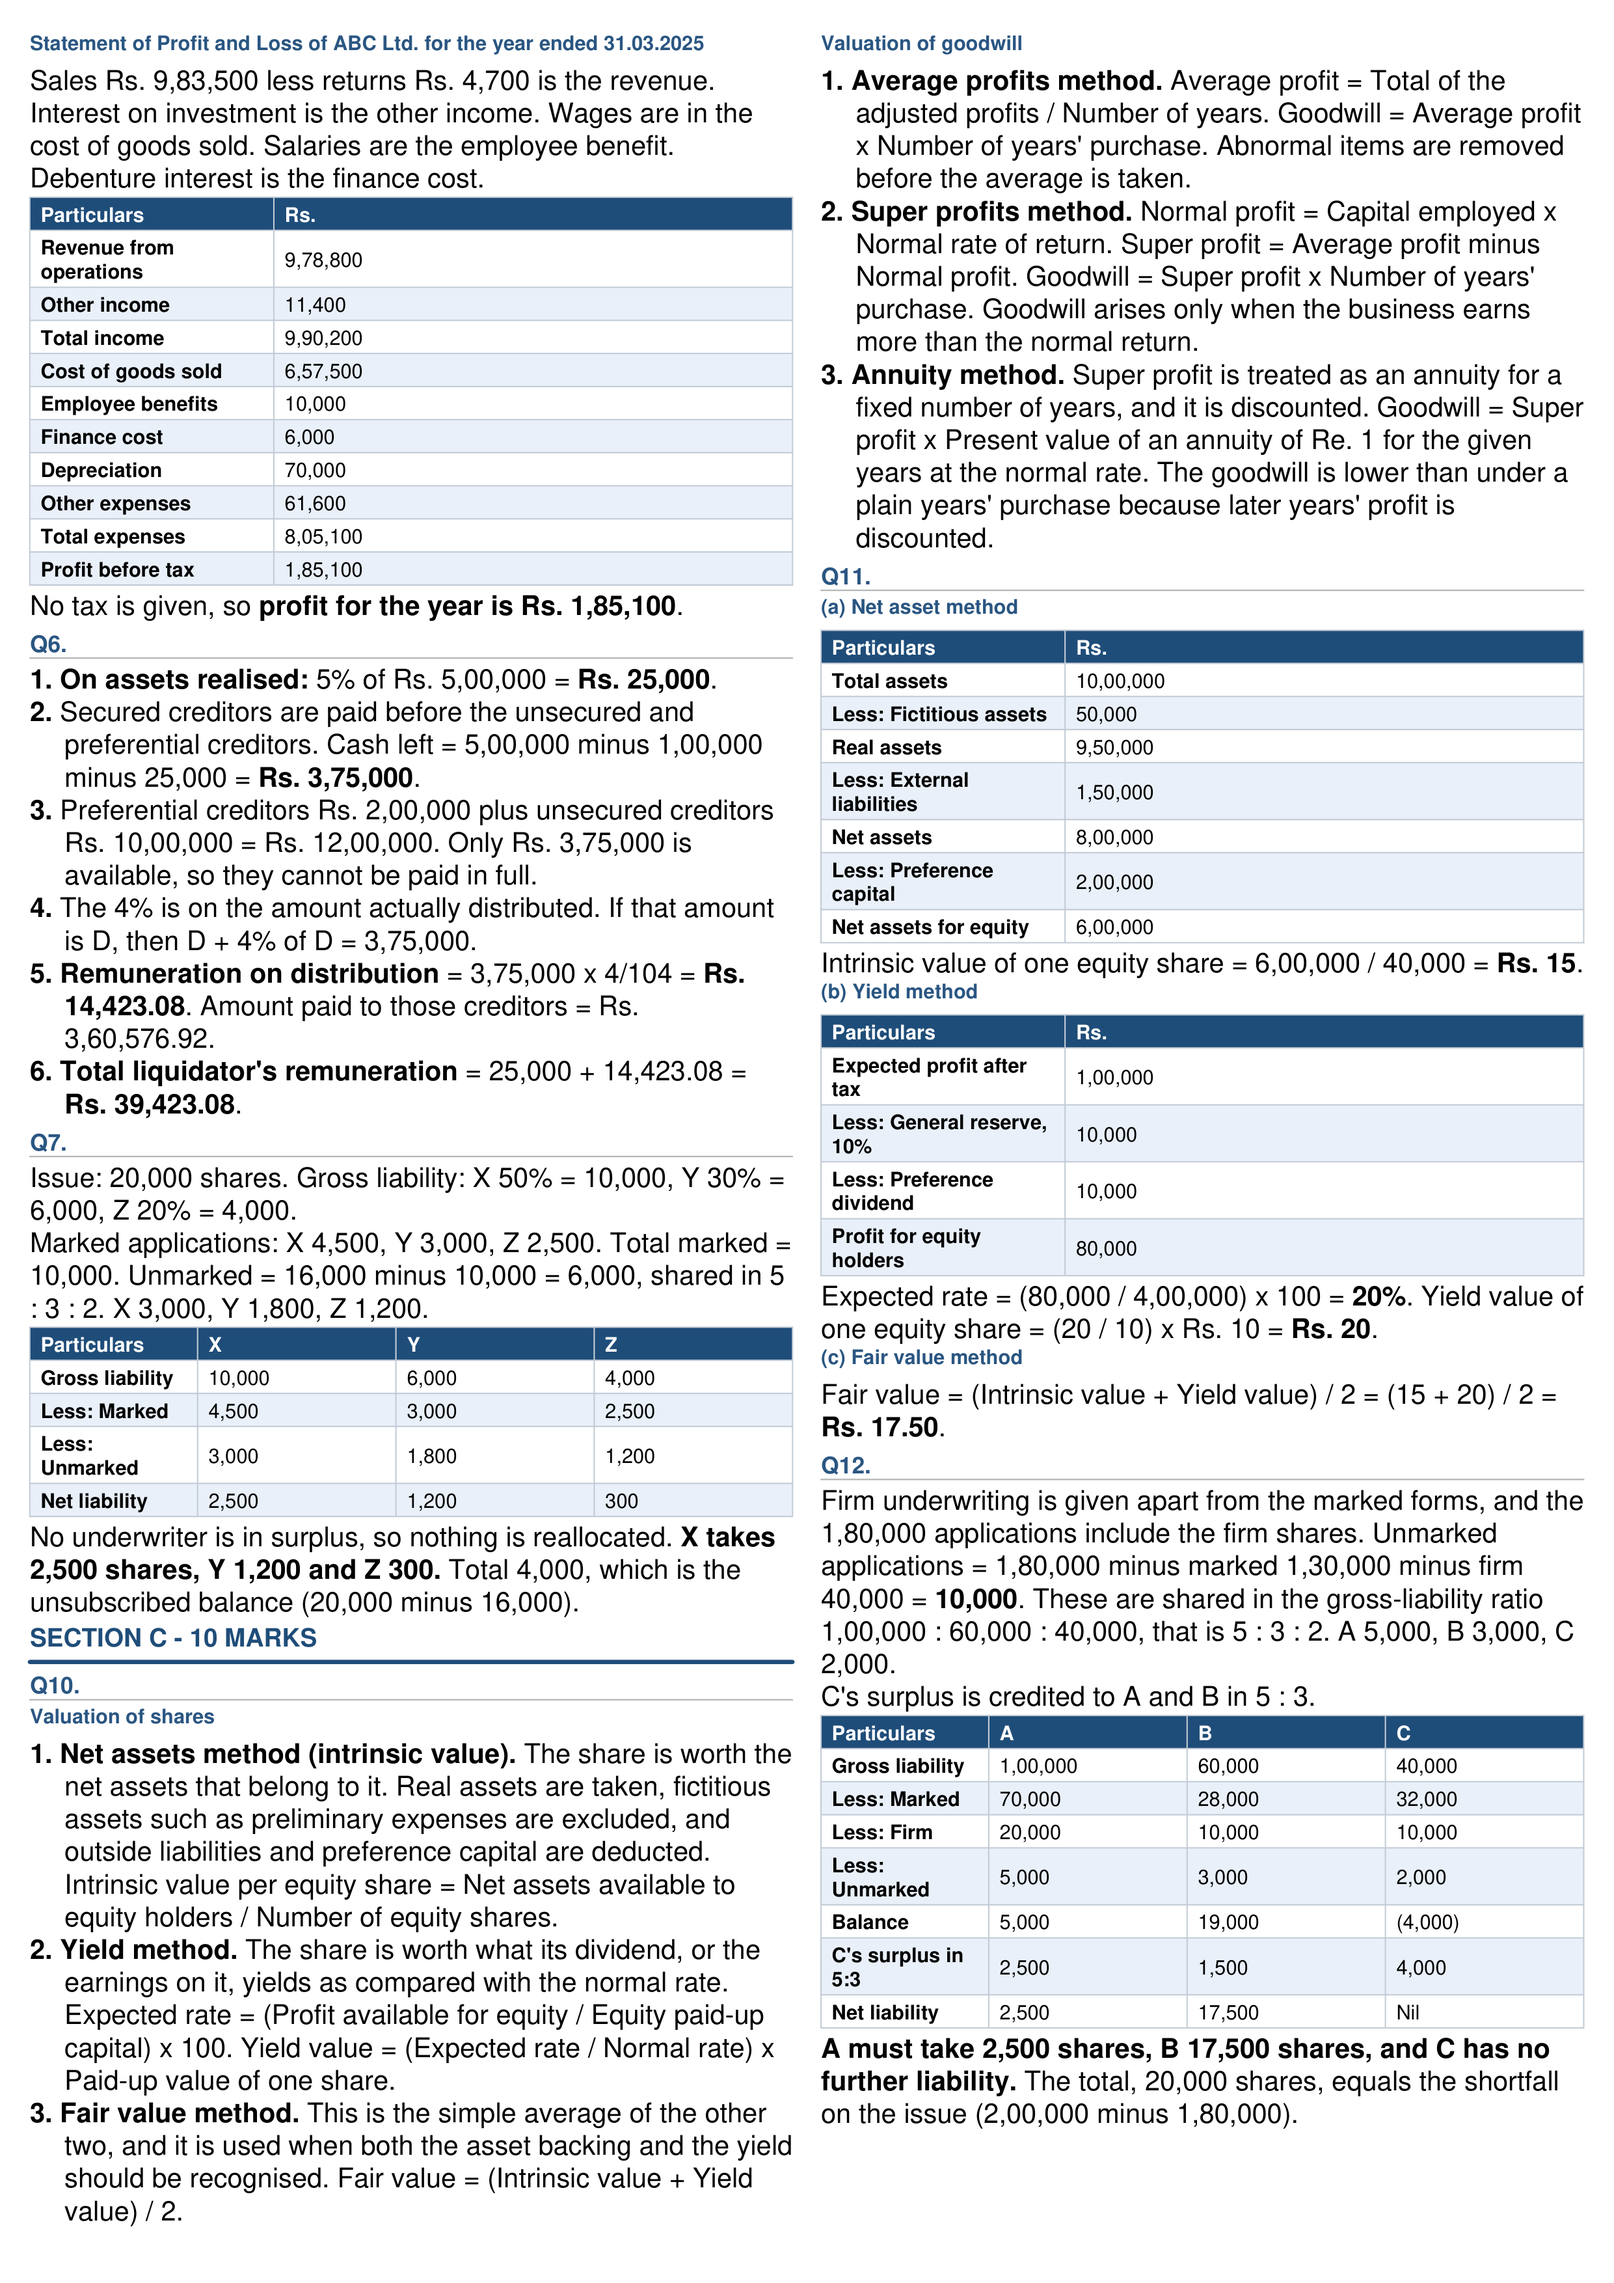
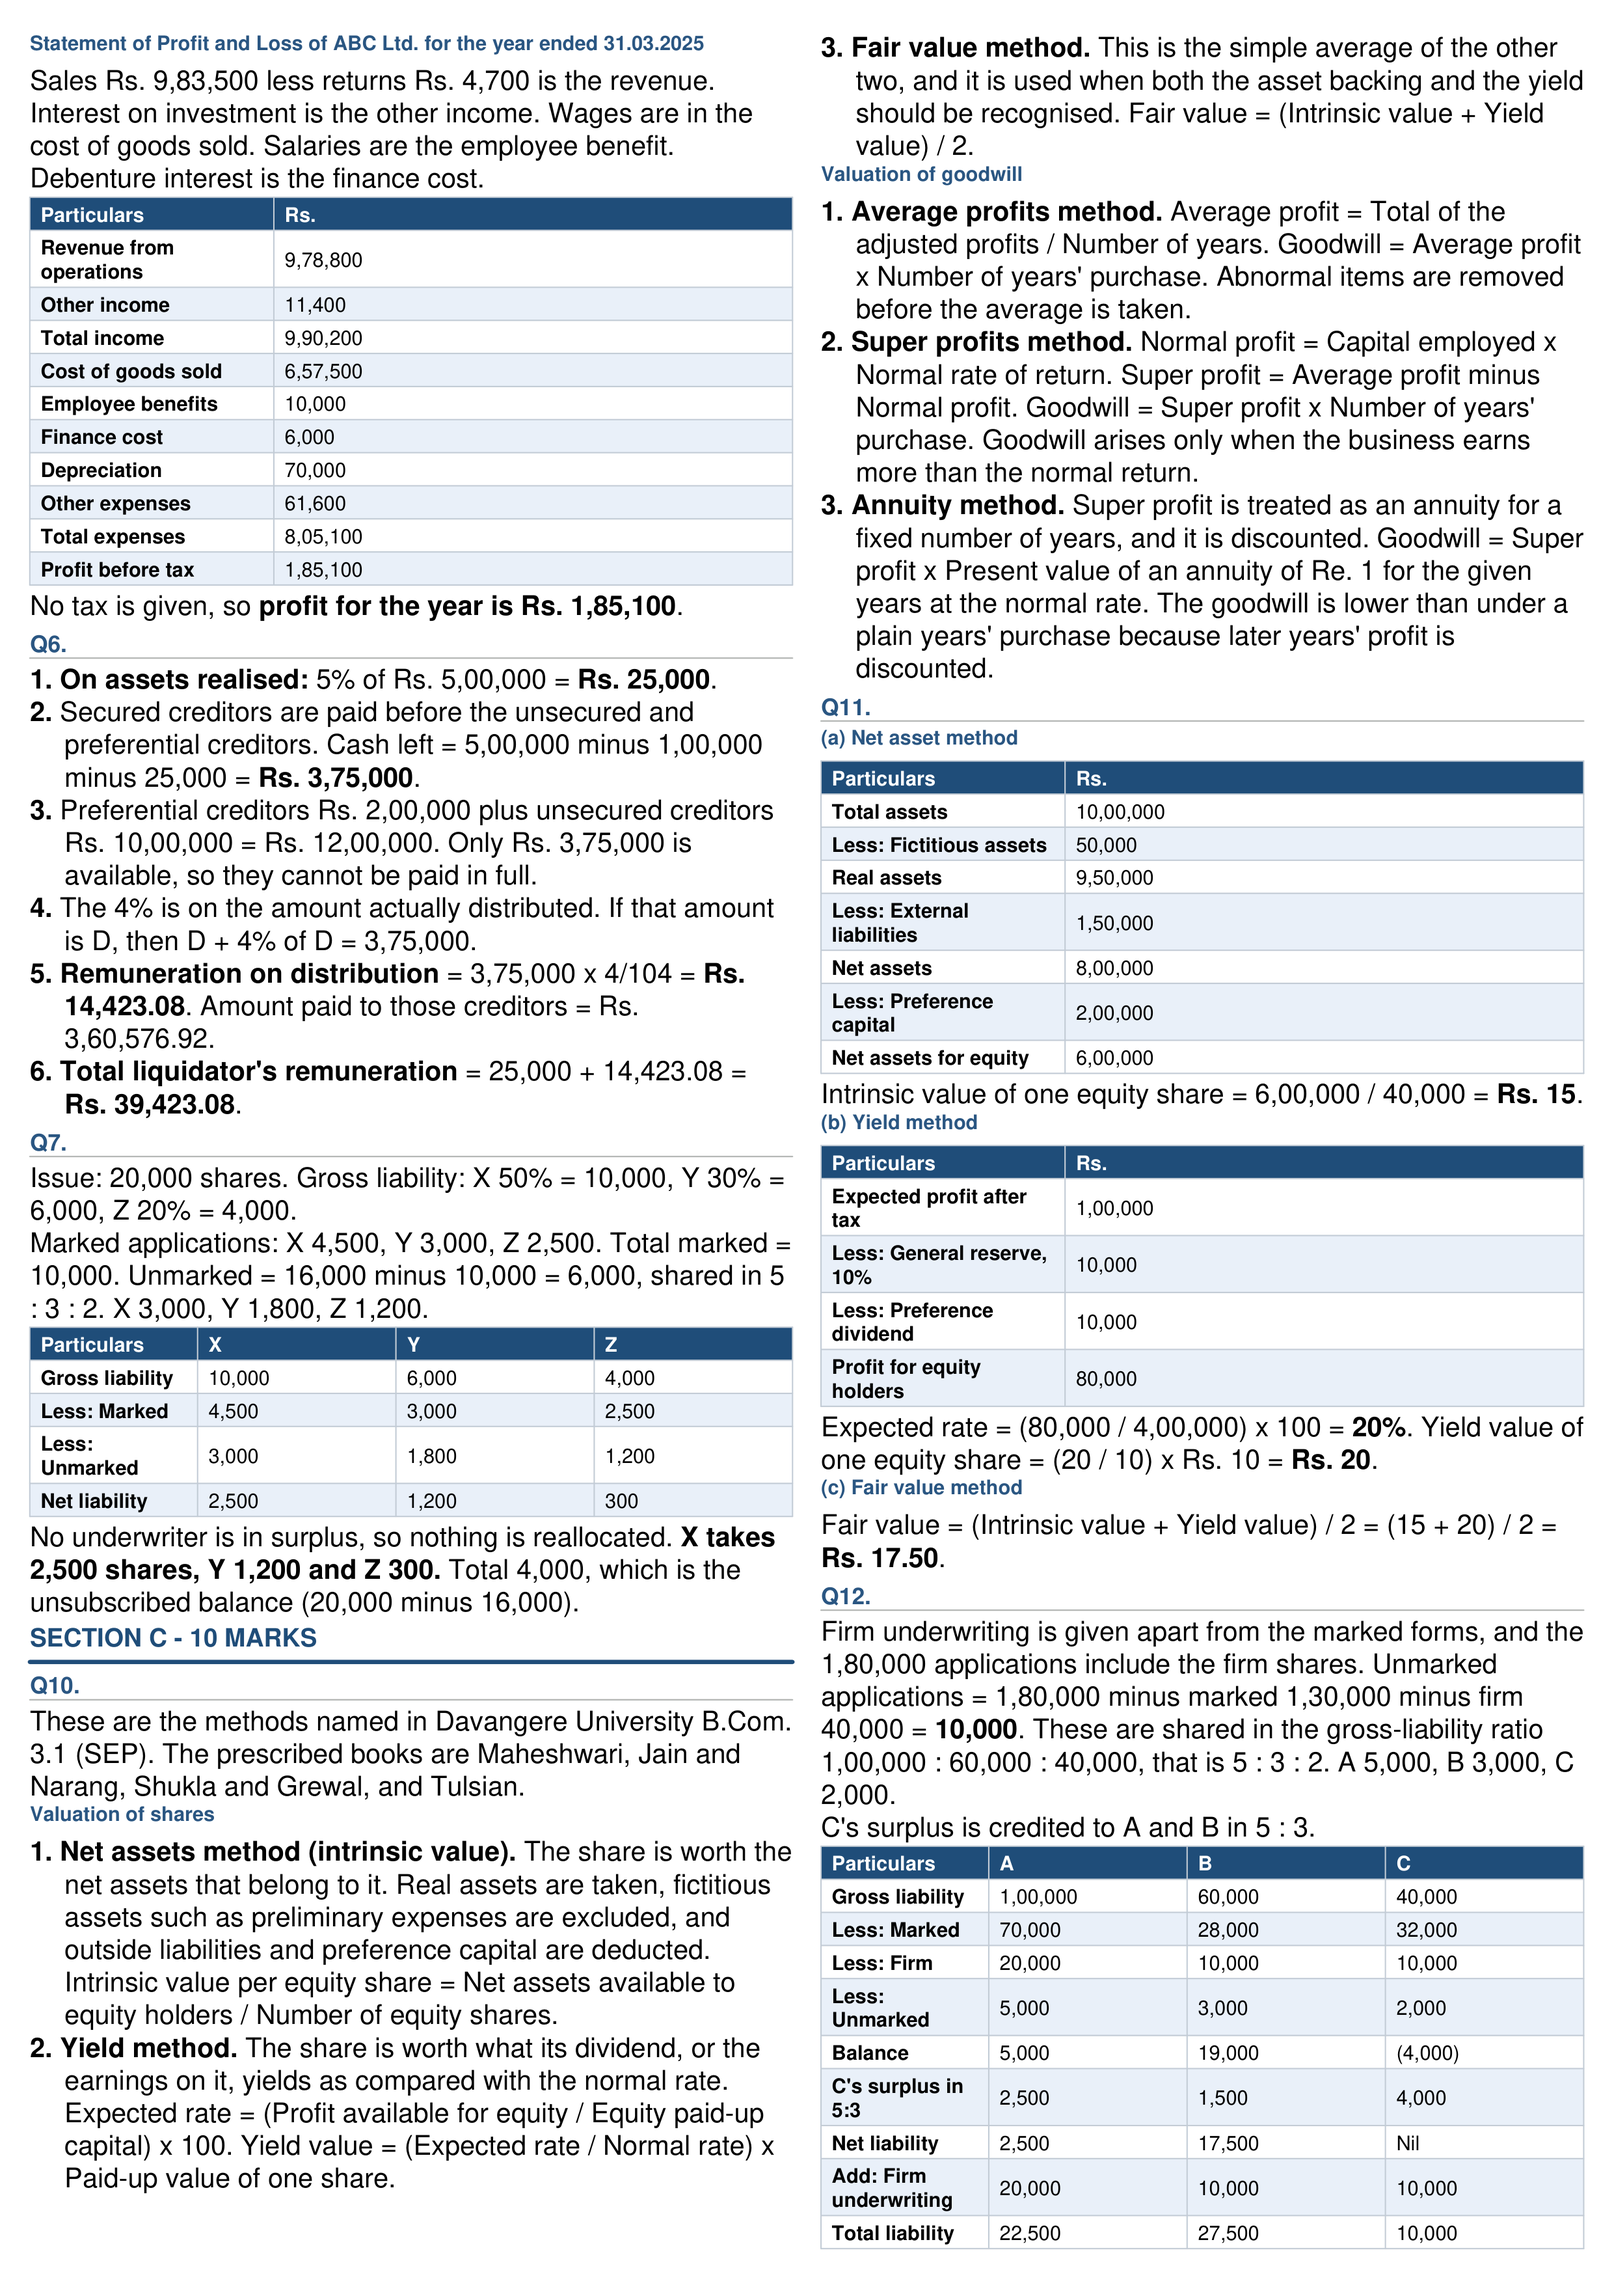
Align the Corporate Accounting answers with the Davangere syllabus.
Firm underwriting is now credited to each underwriter and added back, which is the liability shown in the prescribed textbooks. The other workings are unchanged.

Changed region(s): [[0.0, 0.0, 0.9931, 0.9943]]

diff --git a/papers/corporate-accounting-sem3-dec-2025/answers.md b/papers/corporate-accounting-sem3-dec-2025/answers.md
@@ -159,6 +159,8 @@ No underwriter is in surplus, so nothing is reallocated. **X takes 2,500 shares,
 # SECTION C - 10 MARKS
 
 ## Q10.
+These are the methods named in Davangere University B.Com. 3.1 (SEP). The prescribed books are Maheshwari, Jain and Narang, Shukla and Grewal, and Tulsian.
+
 ### Valuation of shares
 1. **Net assets method (intrinsic value).** The share is worth the net assets that belong to it. Real assets are taken, fictitious assets such as preliminary expenses are excluded, and outside liabilities and preference capital are deducted. Intrinsic value per equity share = Net assets available to equity holders / Number of equity shares.
 2. **Yield method.** The share is worth what its dividend, or the earnings on it, yields as compared with the normal rate. Expected rate = (Profit available for equity / Equity paid-up capital) x 100. Yield value = (Expected rate / Normal rate) x Paid-up value of one share.
@@ -211,5 +213,9 @@ C's surplus is credited to A and B in 5 : 3.
 | Balance | 5,000 | 19,000 | (4,000) |
 | C's surplus in 5:3 | 2,500 | 1,500 | 4,000 |
 | Net liability | 2,500 | 17,500 | Nil |
+| Add: Firm underwriting | 20,000 | 10,000 | 10,000 |
+| Total liability | 22,500 | 27,500 | 10,000 |
 
-**A must take 2,500 shares, B 17,500 shares, and C has no further liability.** The total, 20,000 shares, equals the shortfall on the issue (2,00,000 minus 1,80,000).
+Firm underwriting is credited to the underwriter who agreed to it. That is the treatment in S.P. Jain and K.L. Narang, a book named in the Davangere syllabus, when firm applications are given apart from the marked forms. The same statement then adds the firm shares back, because those shares are also part of each underwriter's liability.
+
+**Total liability: A 22,500 shares, B 27,500 shares, C 10,000 shares.** Of this, the extra shares still to be taken are A 2,500 and B 17,500. C has already covered its firm shares and has no further shortfall. The extra shares total 20,000, which is the shortfall on the issue (2,00,000 minus 1,80,000).
